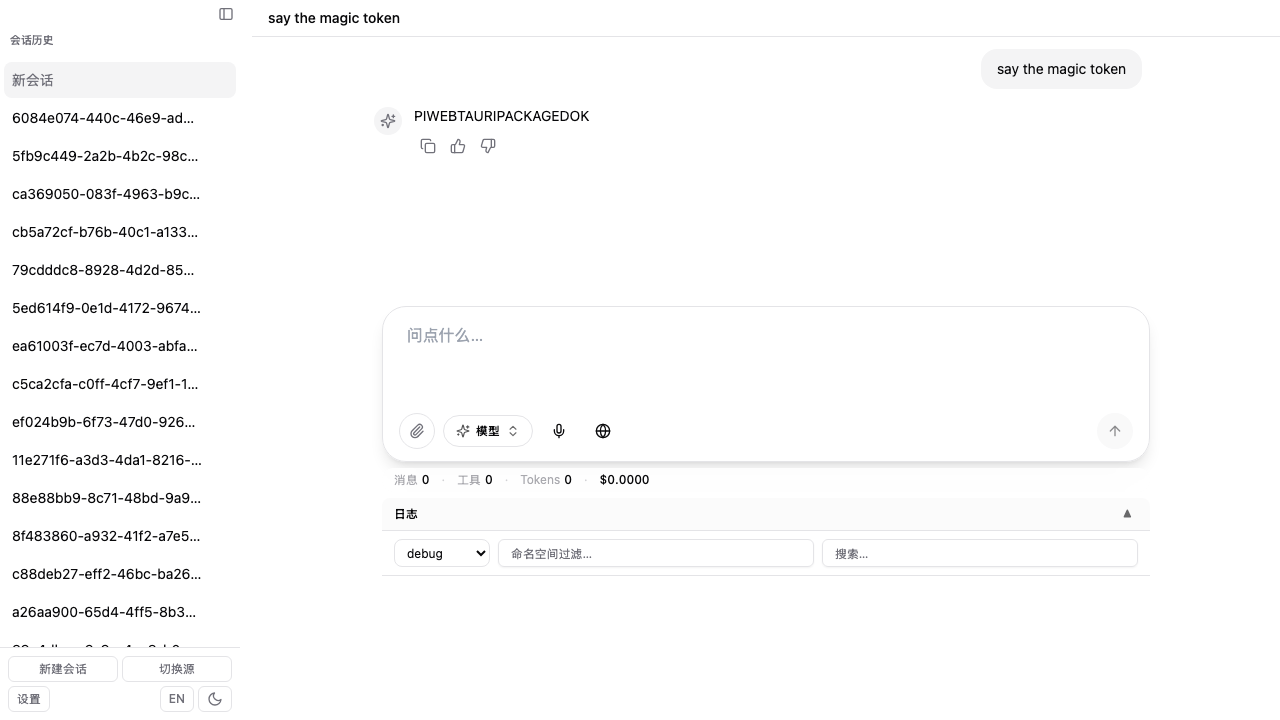
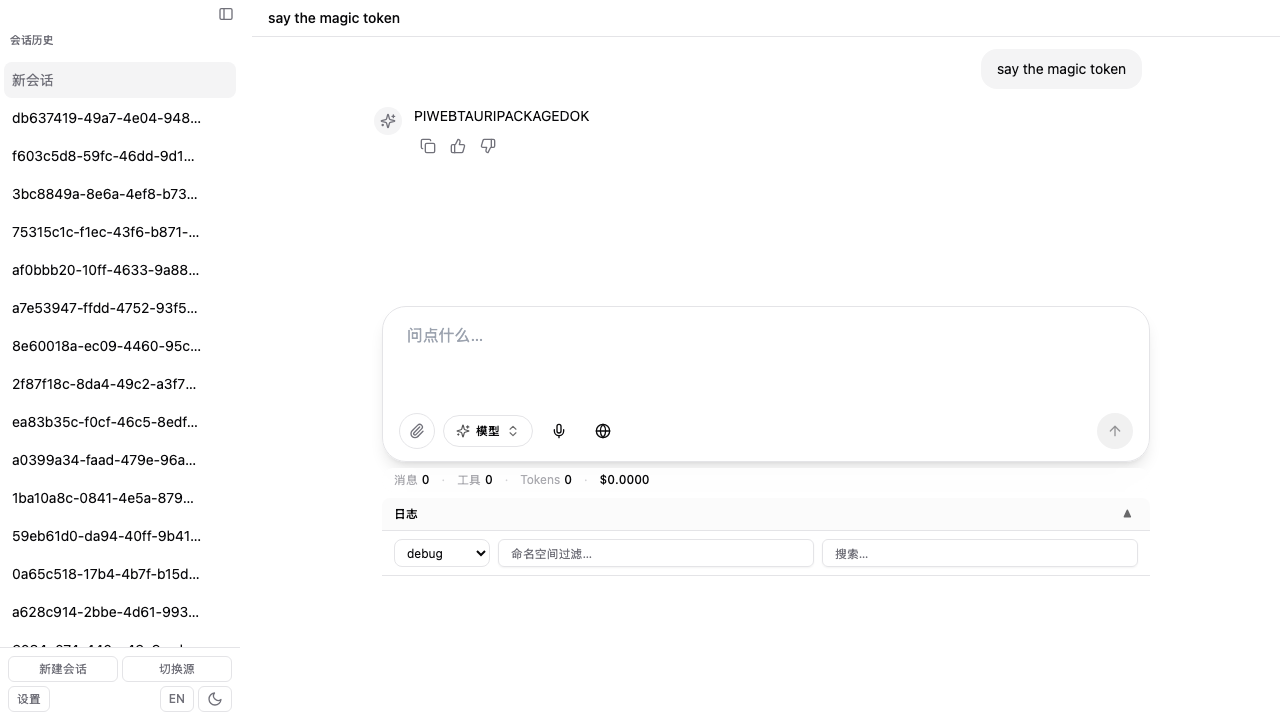
fix(shared-runtime-payload): 锁超时误杀正常解包(Windows CI 实证)
CI 三平台矩阵一跑就抓到本地永远测不到的缺陷：Windows 上并发首启第 1 轮
4 个进程有 3 个失败。时间戳显示解包耗时 **129s**(Defender 扫 9284 个文件),
超过 120s 的默认 lockWaitMs —— 三个等待方在持有者**健康地正常解包**时集体
lock-timeout。生产里这意味着 Windows 上 CLI 与桌面版同时首启,第二个会在
120s 后报错,而第一个其实好好的。

根因:我把 `lockWaitMs` 设成了固定预算,它必须大于最坏情况的解包耗时 ——
这在慢文件系统上是站不住的假设。修法不是把超时调大(那只是把同一个坏假设
往后推),而是修正语义:

- `lockWaitMs` 改为「**无推进**的容忍窗口」
- 持锁方每 LOCK_HEARTBEAT_MS(2s) 刷新 owner.json 的 mtime(心跳,unref)
- 等待方一旦看到推进就重置期限;超时从此只意味着「持有者卡死」
- isLockStale 与 gcRuntimeRoot 判 .lock-* 陈旧时都改用 owner.json 的 mtime
  —— 目录 mtime 在 Windows 上不可靠,按它判会误删正在解包的活锁

把 CI-only 缺陷变成本地必现的回归:
- concurrency.mjs 刻意把 --lock-wait-ms 压到 3s(≪ 真实解包 5-7s)。
  反向验证:摘掉心跳后第 1 轮在 macOS 上同样失败,症状与 Windows CI 一致。
- 新增单测「持锁者存活且持续推进 → 等待方不超时,哪怕耗时远超 lockWaitMs」

顺带(同为 CI 实证):
- recovery.mjs「只读运行时根」加 Windows 守卫 —— chmod 对目录是 no-op,
  强行保留那条断言等于在 Windows 上测了个反向结论。已如实登记跳过。

盲区表更新:**Req 2.5 跨平台一致性不再是盲区** —— cli-e2e.yml 三平台矩阵
的 e2e:cli:reloc 在 Windows 上通过,证实 tar.create({follow:true}) 展开
符号链接确实根除了 realpath EPERM。

回归: vitest 278 绿, cargo 67 绿, 本地 e2e 全绿(含重打 .app 后的 packaged)。

diff --git a/test/runtime-payload/ensure-runtime.test.ts b/test/runtime-payload/ensure-runtime.test.ts
@@ -15,6 +15,7 @@ import {
   readdirSync,
   rmSync,
   statSync,
+  utimesSync,
   writeFileSync,
 } from "node:fs";
 import { mkdtemp } from "node:fs/promises";
@@ -228,7 +229,8 @@ describe("ensureRuntime 损坏与自愈", () => {
     expect(Date.now() - startedAt).toBeLessThan(5_000);
   });
 
-  it("持锁进程仍存活 → 不接管，等待至超时", async () => {
+  it("持锁进程存活但**无任何推进** → 不接管，等待至超时", async () => {
+    // 超时的语义是「持有者卡死」，不是「持有者慢」：此处锁的 owner 文件 mtime 始终不变。
     const digest = await buildSyntheticPayload();
     mkdirSync(runtimeRoot, { recursive: true });
     const lockDir = join(runtimeRoot, `.lock-${digest.slice(0, 12)}`);
@@ -241,6 +243,41 @@ describe("ensureRuntime 损坏与自愈", () => {
     await expect(ensureRuntime({ payloadDir, runtimeRoot, lockWaitMs: 600 })).rejects.toMatchObject({
       code: "lock-timeout",
     });
+  });
+
+  it("持锁者存活且**持续推进** → 等待方不超时，哪怕耗时远超 lockWaitMs", async () => {
+    // ★ 回归防护：CI 实测 Windows 上解包耗时 129s > 120s 的默认 lockWaitMs，导致三个等待方
+    //   在持有者健康地正常解包时集体 lock-timeout。`lockWaitMs` 是**无推进**的容忍窗口，
+    //   不是解包总耗时的预算。持锁方靠心跳刷新 owner 文件的 mtime；等待方见到推进即重置期限。
+    const digest = await buildSyntheticPayload();
+    mkdirSync(runtimeRoot, { recursive: true });
+    const lockDir = join(runtimeRoot, `.lock-${digest.slice(0, 12)}`);
+    const ownerPath = join(lockDir, "owner.json");
+    mkdirSync(lockDir, { recursive: true });
+    writeFileSync(ownerPath, JSON.stringify({ pid: process.pid, host: hostname(), at: Date.now() }));
+
+    // 模拟持锁方的心跳：每 100ms 刷新 mtime，总计 900ms —— 远超 300ms 的无推进窗口。
+    const beat = setInterval(() => {
+      const now = new Date();
+      utimesSync(ownerPath, now, now);
+    }, 100);
+    // 900ms 后「完成解包」：写 .ok 并释放锁。
+    const finish = setTimeout(() => {
+      clearInterval(beat);
+      const target = join(runtimeRoot, `9.9.9-${digest.slice(0, 12)}`);
+      mkdirSync(join(target, "dist"), { recursive: true });
+      writeFileSync(join(target, "dist", "server.mjs"), "//");
+      writeFileSync(join(target, MARKER), JSON.stringify({ schema: 1, version: "9.9.9", digest, entries: 3 }));
+      rmSync(lockDir, { recursive: true, force: true });
+    }, 900);
+
+    try {
+      const res = await ensureRuntime({ payloadDir, runtimeRoot, lockWaitMs: 300 });
+      expect(res.unpacked).toBe(false); // 复用了持锁方的结果，而非超时
+    } finally {
+      clearInterval(beat);
+      clearTimeout(finish);
+    }
   });
 
   it("落盘文件数与元数据不符 → payload-corrupt，不落地", async () => {

diff --git a/.kiro/specs/shared-runtime-payload/design.md b/.kiro/specs/shared-runtime-payload/design.md
@@ -187,7 +187,8 @@
 | `target/.ok` 存在且 `digest` 匹配 | touch `.ok` 的 mtime（供 GC 判活）；直接返回 | 命中，`unpacked=false` | 1.4, 10.1 |
 | `target` 不存在 | 取锁 → 解包到 staging → 写 `.ok` → `rename(staging → target)` | 已解包 | 3.1, 3.2 |
 | `target` 存在但无 `.ok`，或 `.ok` 的 `digest` 不匹配 | 取锁 → 解包到 staging → `rename(target → .trash-*)` → `rename(staging → target)` → 尽力删 trash | 已修复 | 3.5 |
-| 取锁时 `.lock-*` 已存在 | 轮询 `target/.ok`（250ms）直至出现或超 `LOCK_WAIT_MS`(120s) | 复用他人结果 / `lock-timeout` | 3.3, 3.6 |
+| 取锁时 `.lock-*` 已存在，且持有者**在推进**（心跳刷新 `owner.json` 的 mtime） | 轮询 `target/.ok`（250ms），每见到一次推进就**重置**无推进窗口 | 复用他人结果 | 3.3 |
+| 取锁时 `.lock-*` 已存在，且 `LOCK_WAIT_MS`(120s) 内**无任何推进** | 判定持有者卡死 | `lock-timeout` | 3.6 |
 | `.lock-*` 的持有者进程**已死**（`owner.json` 记录 pid+host，`kill(pid,0)` 探测） | 立即判为陈旧，删除后重新竞争 | 继续 | 3.3 |
 | `.lock-*` 的 mtime 早于 `STALE_LOCK_MS`(10min) | 兜底判据（跨主机 / owner 文件缺失） | 继续 | 3.3 |
 | 解包中途进程被杀 | staging 残留，`target` 不存在或无 `.ok` | 下次启动重新解包；staging 由 GC 清理 | 3.4 |
@@ -196,6 +197,10 @@
 **`rename` 为什么必须先把旧目录移开**（D-5）：POSIX 上 `rename(dir → 非空 dir)` 返回 `ENOTEMPTY`，Windows 上直接失败。「先移开再 rename」是唯一跨平台一致的原子替换路径。
 
 **锁的陈旧判据为什么必须看存活而非年龄**（实测修正）：只按年龄判断的话，解包途中崩溃（或被 SIGKILL）留下的锁在 10 分钟内都算「新鲜」，下一次启动要空等满 `lockWaitMs`(120s) 才报 `lock-timeout`——**崩一次，应用两分钟起不来**。故锁内写 `owner.json`（pid + host + at），后来者用 `kill(pid, 0)` 探测存活；年龄阈值退居兜底（跨主机共享盘、owner 文件缺失）。误判方向是安全的：把活的当死的只可能发生在 pid 极短时间内被复用，而那时 `kill(0)` 返回存活，我们选择**等待**而非接管。
+
+**`lockWaitMs` 是「无推进」的容忍窗口，不是解包总耗时的预算**（CI 实测修正）：把它当作总耗时预算，等于假设「解包不会比这更慢」——而这个假设在慢文件系统上不成立。CI 实测 Windows（Defender 扫描 9284 个文件）解包耗时 **129s > 120s 默认预算**，于是三个等待方在持有者**健康地正常解包**时集体 `lock-timeout`。修法不是把超时调大（那只是把同一个坏假设往后推），而是让持锁方每 `LOCK_HEARTBEAT_MS`(2s) 刷新 `owner.json` 的 mtime，等待方一旦看到推进就重置期限。超时从此恢复它应有的语义：**持有者卡死了**，而不是持有者慢。
+
+心跳刷的是 `owner.json` 的 mtime 而非锁目录的 mtime —— 目录 mtime 在 Windows 上不可靠。`gcRuntimeRoot` 判断 `.lock-*` 是否陈旧时须用同一个信号，否则会误删一个正在解包的活锁。
 
 **失败时为什么必须等流关闭再删 staging**（实测修正）：`pipeline` 一旦 reject 就 destroy 各流，但 tar 的 `Unpack` **仍可能有在途的 `mkdir`/`open` 落盘**。立刻 `rm` staging 会删到一半又被重新写出来，磁盘满时必然残留一个半成品目录——而那正是用户最需要回收的空间。
 
@@ -440,3 +445,4 @@ Req 5.3 要求「不删正在被其他进程使用的目录」，但跨进程无
 | D-5 | CLI 的 `distServerJs()` 由同步变异步 | 外部若有调用方会断裂 | 是；该函数仅被 `bin/pi-web.mjs` 自身与桌面壳（已弃用路径）消费；保留同步的 `distServerJs()` 作为分支 1/2 的实现细节 |
 | D-6 | CLI 用 `createRequire` 而非 `await import(变量)` 载入解包器 | 看起来是倒退 | 是；`await import(<非字面量>)` 经 vite 的 ssrTransform 会产出 rollup 解析不了的代码（`Expected ident`），使 `test/cli/cli-args.test.ts` 整个套件无法收集。`@vite-ignore` 与包一层函数均无效；唯一不引入 `eval` 的出路是 `require`（Node ≥ 22.12 支持 `require(esm)`） |
 | D-7 | 首次解包耗时由 5.6s 升至约 6s | 多了一次全树文件计数 | 是；换来「摘要正确但落盘不全」这一静默灾难的闸门 |
+| D-8 | 持锁期间有一个 2s 间隔的心跳定时器 | 极小的常驻开销 | 是；`unref()` 不阻止进程退出。没有它，慢文件系统上的等待方会在持有者正常工作时超时（CI 实测 Windows 129s） |

diff --git a/.kiro/specs/shared-runtime-payload/tasks.md b/.kiro/specs/shared-runtime-payload/tasks.md
@@ -306,10 +306,11 @@
 
 | 需求 | 盲区 | 原因 | 现状 |
 |---|---|---|---|
-| 11.1–11.5 | 发布流水线从未在真实 CI 上运行 | 无法本地触发 GitHub Actions | 仅结构自检；任务 8.1 未打勾 |
-| 2.5 | 跨平台一致性（Ubuntu 构建 → Windows/Linux 解包） | 本地只有 macOS arm64 | 未验证 |
+| 11.1–11.5 | `desktop-release.yml` 从未在真实 CI 上运行 | 只在 tag / workflow_dispatch 触发 | 仅结构自检；任务 8.1 未打勾。（`cli-e2e.yml` 已在 PR 上真实跑通三平台） |
+| ~~2.5~~ | ~~跨平台一致性~~ | — | **已由 CI 覆盖**：`cli-e2e.yml` 三平台矩阵跑 `e2e:cli:reloc`（Ubuntu 构建载荷 → Windows/macOS 首启解包），Windows 通过 |
 | 12.2 | Windows / Linux 的三场景磁盘与下载体积 | 同上 | 未验证；报告已声明「不得据此推断其他平台」 |
 | 4.2 | 非 macOS 的磁盘满路径 | 无可移植的 ENOSPC 模拟手段 | `recovery.mjs` 在非 macOS 上打印跳过原因 |
+| 4.1 | Windows 的只读运行时根 | `chmod 555` 在 Windows 上对目录是 no-op | `recovery.mjs` 在 Windows 上跳过并登记 |
 | 5.3 | 「GC 不删正在被其他进程使用的目录」 | 跨进程无引用计数可用 | **启发式**（存活探测 + 7 天最小年龄 + 保留最近 K 个），见 design D-3。只验证了「7 天内不删」与「keepDir 不删」 |
 | 1.6 / 3.3 | 跨主机共享盘上的锁语义 | 无 NFS/SMB 测试环境 | 依赖年龄阈值兜底，未验证 |
 